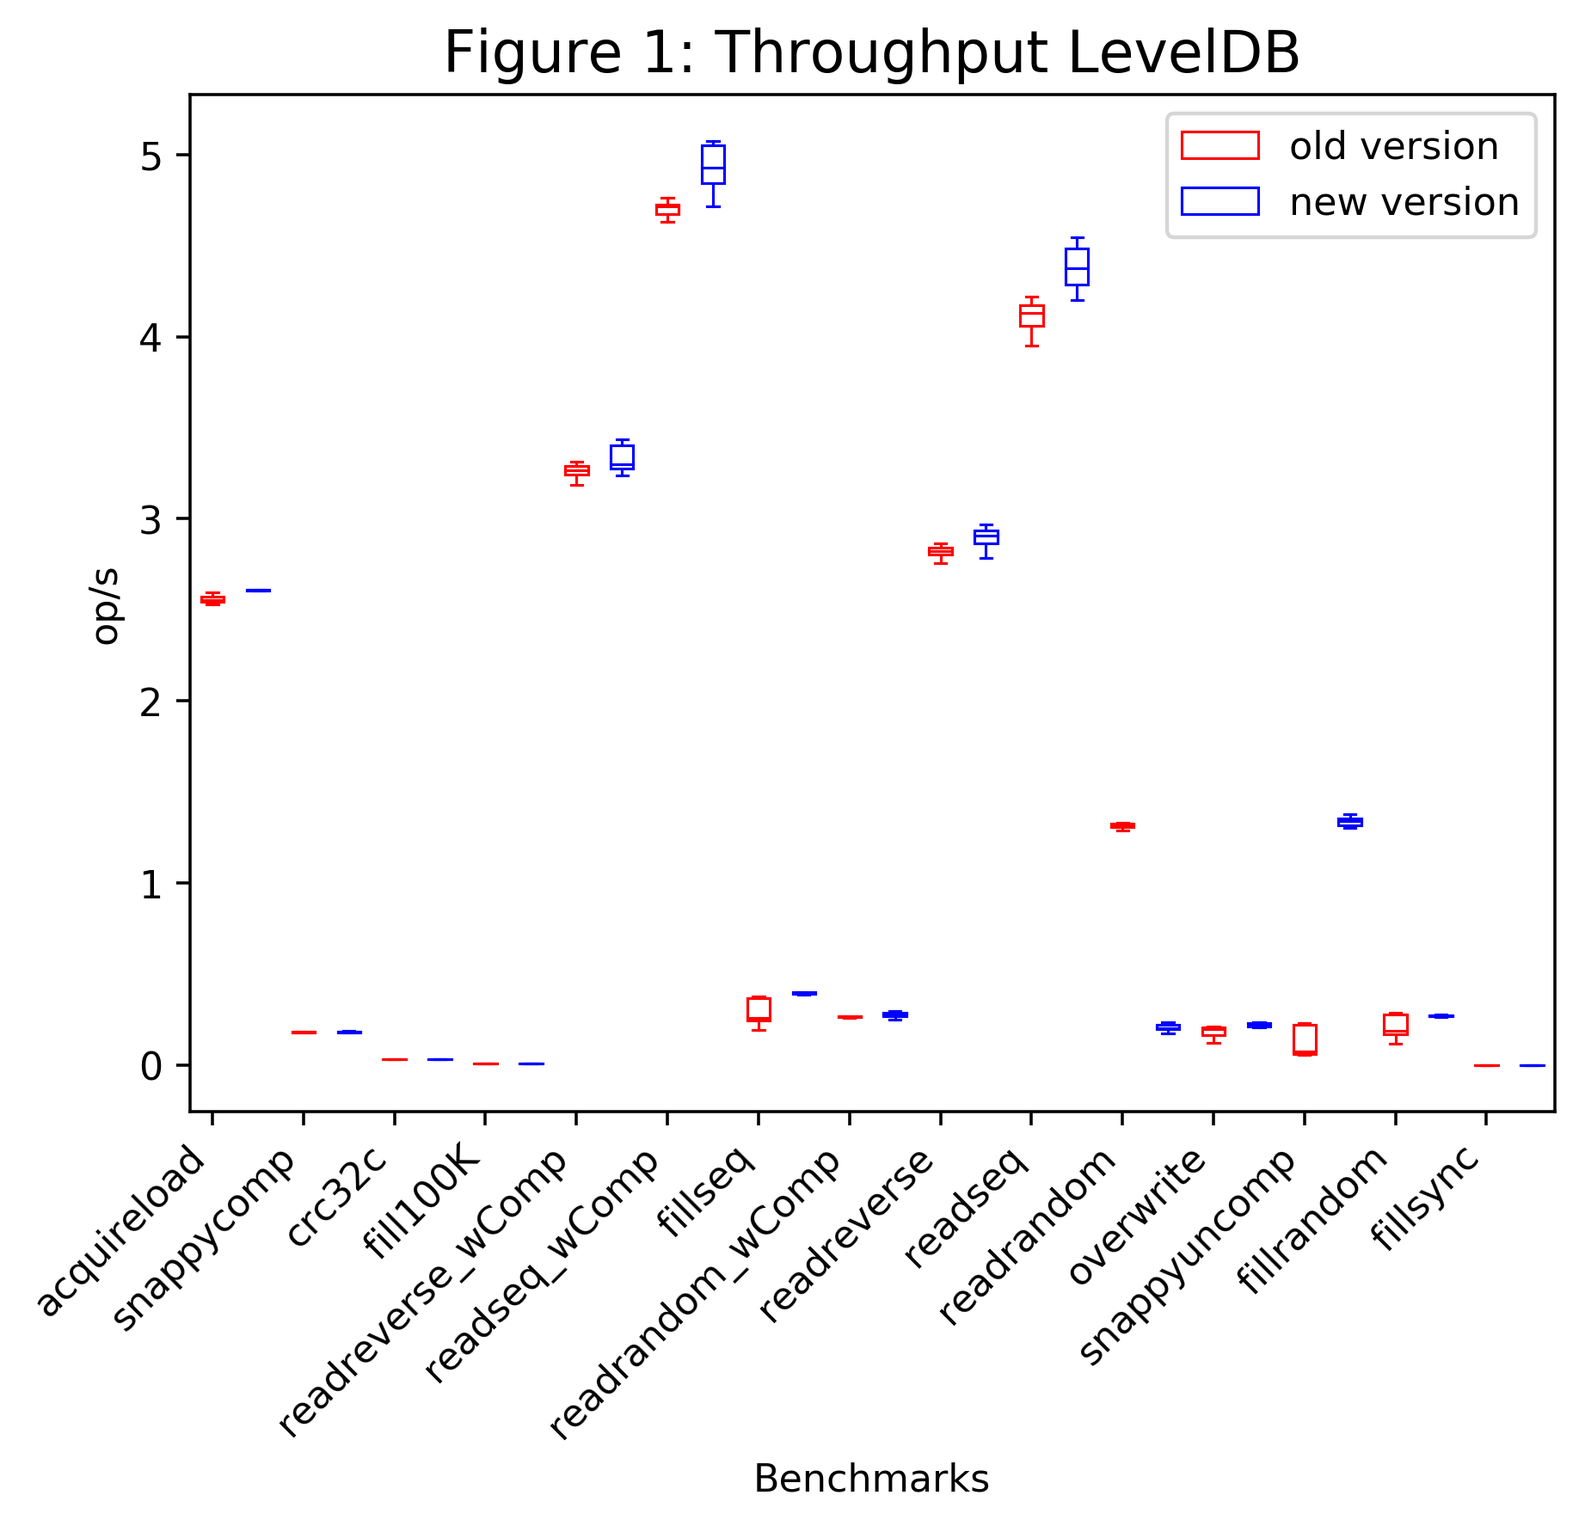
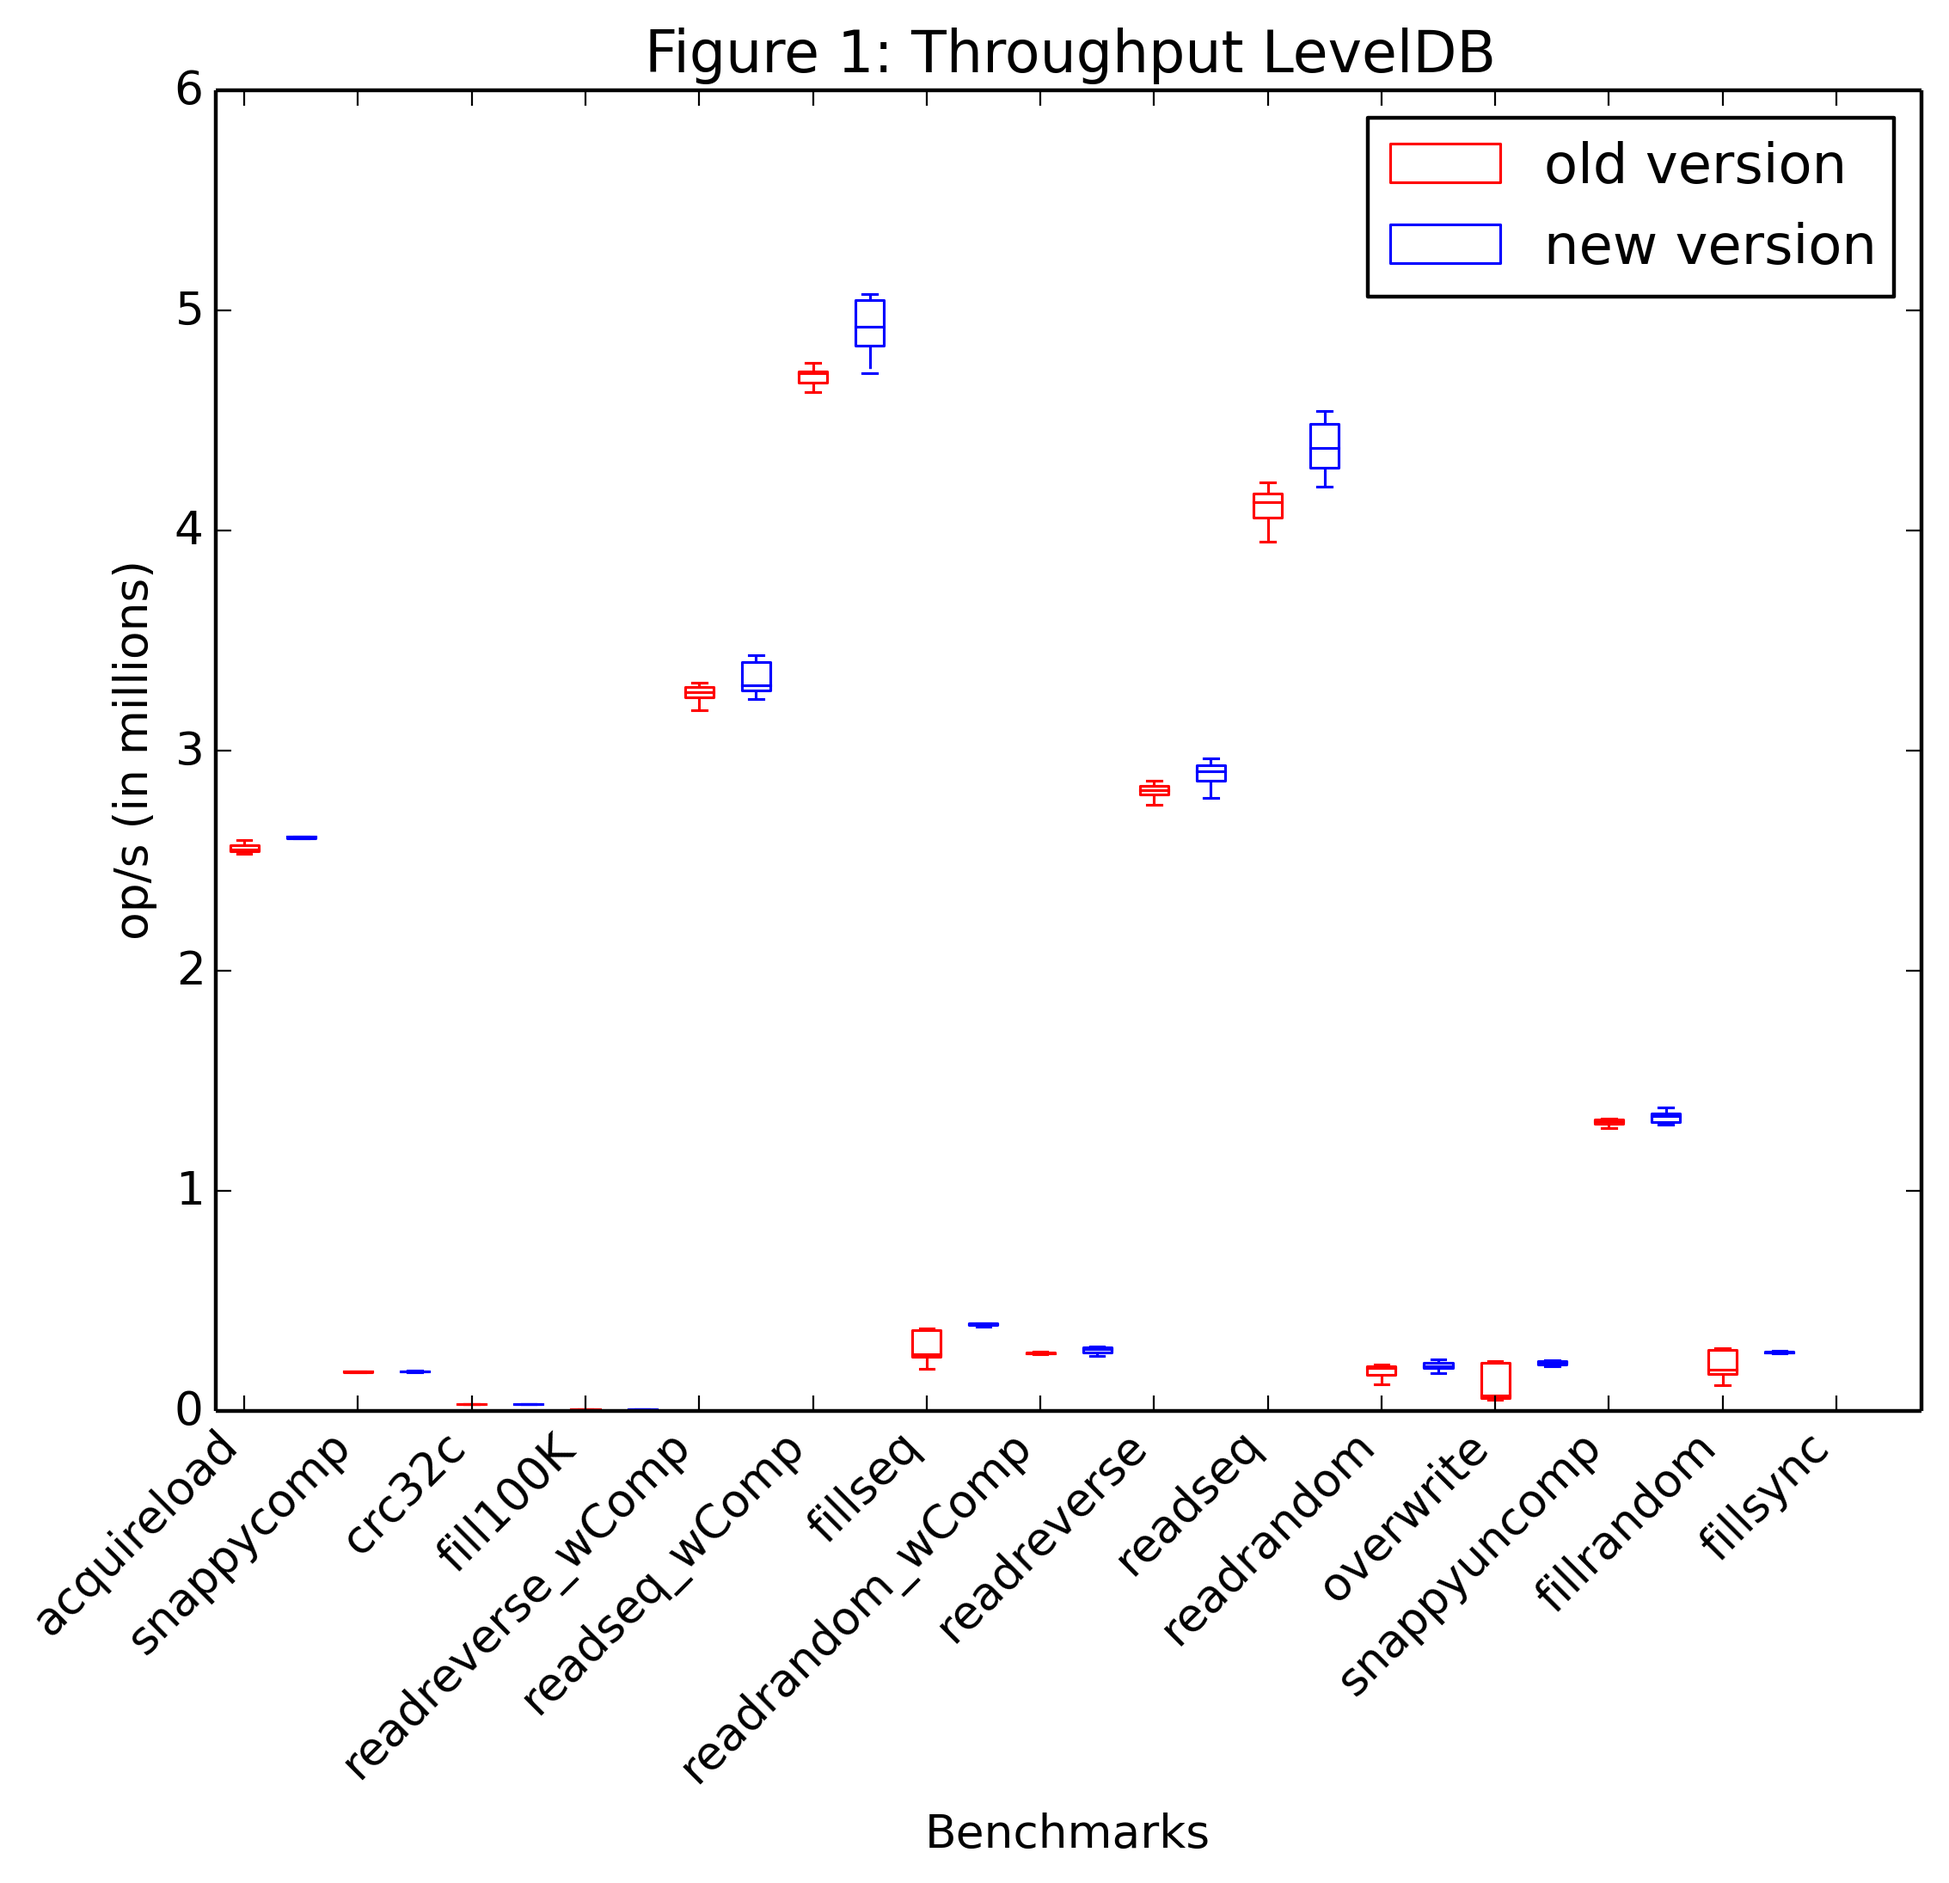
fixed axis label and ordering of benchmarks

diff --git a/graphData/getLists.py b/graphData/getLists.py
@@ -100,7 +100,7 @@ def main():
   #drawEbar(tests, minsT, twosT, maxsT)
   
   # array of info to pass into boxplot
-  tInfo = ["Figure 1: Throughput LevelDB", "Benchmarks", "op/s"]
+  tInfo = ["Figure 1: Throughput LevelDB", "Benchmarks", "op/s (in millions)"]
   bInfo = ["Figure 2: Bandwidth LevelDB", "Benchmarks", "MB/s"]
 
   drawBoxPlot(tests, allDataT, tInfo)

diff --git a/graphData/displayGraph.py b/graphData/displayGraph.py
@@ -14,7 +14,7 @@ def drawEbar(tests, mins, meds, maxs):
 
 def drawBoxPlot(tests, data, info):
 	# draw boxplot with no outliers and allows color
-	bplot = plt.boxplot(data, 0, '', patch_artist = True)
+	bplot = plt.boxplot(data, 0, '', patch_artist = True )
 	
 	# different color and width settings
 	color = ['red', 'blue']
